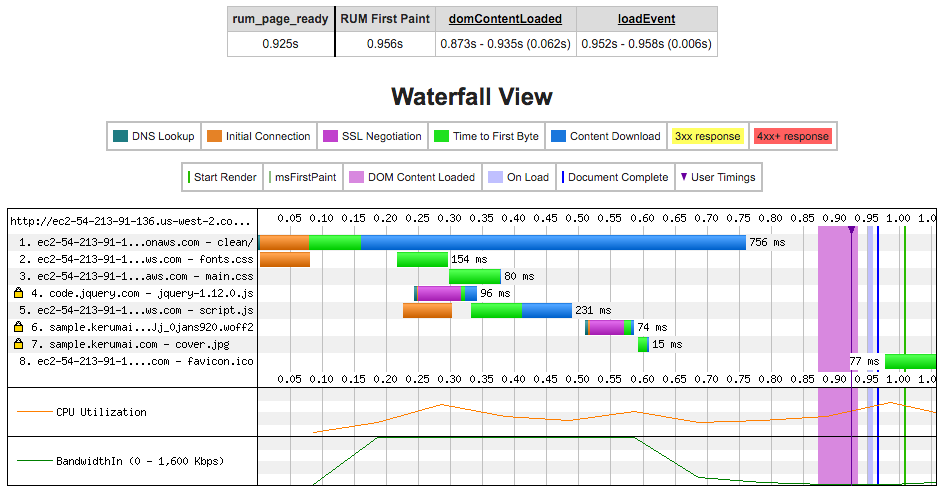
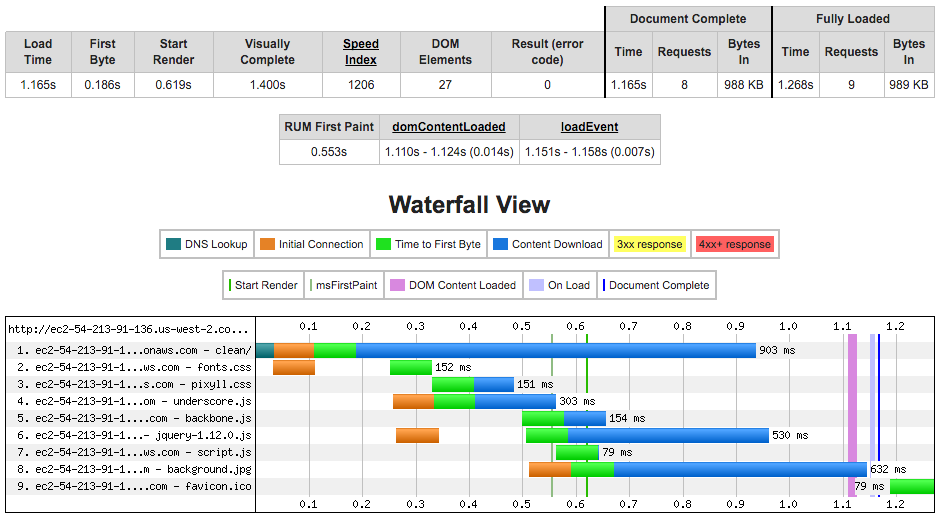
Re-ran webpagetest with the latest version of my sample chunking app, and updated the post to reflect that.

diff --git a/_posts/2016-02-21-speed-up-page-load-with-chunking.md b/_posts/2016-02-21-speed-up-page-load-with-chunking.md
@@ -2,8 +2,8 @@
 layout:     post
 title:      Speeding up Page Load with Chunking
 date:       2016-02-21 18:29:00
-summary:    Some techniques for using HTTP Chunked Encoding & Link Prefetching to speed up page load times
-tags: engineering
+summary:    Some techniques for using HTTP Chunked Transfer-Encoding to speed up page load times
+tags:       engineering
 image:      cooper-sailor-2.png
 published:  true
 ---
@@ -33,36 +33,35 @@ This can also work really well in combination with [link prefetch/preconnect/dns
 
 ### Example Site
 
-I setup a little sample site to demonstrate this. It's just a modified version of this [clean jekyll template](http://jekyllthemes.org/themes/clean/) served through some custom netty code I have running on an EC2 instance which I use to insert a half second delay between flushing the first and second chunks.
+I setup a little sample page to demonstrate this. It is just a basic html page served through some custom netty code I have running on an EC2 instance which I use to insert a half second delay between flushing the first and second chunks.
 
-The purpose is to simulate a page that is slow to generate, and show you the difference in time to the page being _'ready'_, with flushing the head early vs not. 
-Choosing when a page is ready can be very specific to the site in question, but for this I've inserted a [performance timing mark](https://developer.mozilla.org/en-US/docs/Web/API/Performance/mark) - "rum_page_ready" - at the point when the jquery and custom js files have been downloaded and processed, and the DOM is ready. And I also print this out into the page in a wonderful `<marquee>` tag :)
+The purpose is to simulate a page that is slow to generate, and show you the difference in time to the page being _'ready'_, with flushing the head early vs not.
 
-Here's the [site with fast flushing of the head](http://ec2-54-213-91-136.us-west-2.compute.amazonaws.com/clean/)
-And here it is [without flushing](http://ec2-54-213-91-136.us-west-2.compute.amazonaws.com/clean/?chunked=false)
+Here's the [site with fast flushing of the head](http://ec2-54-213-91-136.us-west-2.compute.amazonaws.com/clean/).
 
-As well as flushing the head early, a few other things I'm doing of note in the sample are:
+And here it is [without flushing](http://ec2-54-213-91-136.us-west-2.compute.amazonaws.com/clean/?chunked=false).
 
-- Using link prefetch for the hero image and font file, in the head. This gets the browser to start downloading them immediately, and storing them in cache, with them then being pulled from the browser cache when CSS chooses to use them.
-  - This is a bit hit and miss due to _prefetch_ being a hint rather than a command. But once [_preload_](https://www.w3.org/TR/preload/) is here (come on Ilya!), we can use that reliably instead.
-- Using `<script defer>` for the 2 JS files in the head. This gets the browser to download them early, but not block rendering to process them until after page finished loading.
+Now taking a look at the webpagetest runs for each, you can see the impact. Note that I ran these using webpagetest's simulated "Mobile 3G" connection on Chrome, running from the US east coast to AWS on the west coast to represent a reasonably bad connection.
 
-Now taking a look at the webpagetest runs for each, you can see the impact. Note that I ran these using webpagetest's simulated "Mobile 3G" connection on Chrome, running from the US east coast to AWS on the west coast to represent a reasonable bad connection.
-
-#### Results with Fast Flushing
-
-Can see that most of the assets have finished downloading in the gap between the first head chunk and the rest of the body.
-The rum_page_ready time was 0.925 secs:
-![Waterfall for fast flushed](/assets/waterfall-fast-flushed.png)
-<http://www.webpagetest.org/result/160222_J5_GB5/2/details/>
 
 #### Results without Flushing
 
-You can see that all the page assets don't start to get downloaded until _after_ the page has been fully downloaded.
-The rum_page_ready time was 1.13 secs:
+You can see that all the page assets don't start to get downloaded until __after the whole page has been generated__ by server and received by the browser.
+The _Document Complete_ time was __1.943 secs__:
 ![Waterfall for no flushing](/assets/waterfall-no-flushing.png)
-<http://www.webpagetest.org/result/160222_8Z_GB8/2/details/>
+<http://www.webpagetest.org/result/160229_WY_AGR/1/details/>
 
+
+#### Results with Fast Flushing
+
+And now with the early flushing, we can see that most of the assets have finished downloading in the gap between the first head chunk and the rest of the body.
+The _Document Complete_ time was __1.165 secs__:
+![Waterfall for fast flushed](/assets/waterfall-fast-flushed.png)
+<http://www.webpagetest.org/result/160229_99_AGQ/1/details/>
+
+So for this example - although admittedly tailored to demonstrate this - thats a decent __60% improvement__.
+
+#### References
 
 Here's the source, although there's nothing much special about the code: <https://github.com/kerumai/chunking>
 
@@ -104,5 +103,4 @@ The more widely used alternative to this technique is to render the js templates
 
 When you're trying to eke out improvements to page load time, especially on high latency networks, then keep flushing, chunked encoding, and link prefetch in mind.
 
-Maybe I'll get round to writing about other improvements that you can make with HTTP/2 and SSE some time soon! Or maybe I'll go back to re-watching all the seasons of House while counting down the days to Daredevil season 2!
-
+Maybe I'll get round to writing about other improvements that you can make with HTTP/2 and SSE some time soon! Or maybe Daredevil Season 2 will be released before then and I'll go dark for another week.

diff --git a/_posts/2016-02-28-programming-guidelines-from-2004.md b/_posts/2016-02-28-programming-guidelines-from-2004.md
@@ -2,9 +2,10 @@
 layout:     post
 title:      Programming Guidelines From 2004
 date:       2016-02-28 14:30:00
-tags: engineering,firsttechjob
-image: cooper-santa.jpg
-published: true
+summary:    Looking back on some software development tips that I wrote at the start of my career
+tags:       engineering,firsttechjob
+image:      cooper-santa.jpg
+published:  true
 ---
 
 The recent [\#FirstTechJob](https://twitter.com/search?q=%23FirstTechJob) meme on twitter got me thinking about my early career at a couple of small software companies. And that led me to finding this old gem that I wrote for my colleagues back in 2003/4 to seemingly try to impart my superior programming wisdom on them. 

diff --git a/about.md b/about.md
@@ -8,7 +8,6 @@ I'm Mike Smith, a software engineer at netflix, runner and trainee dog whisperer
 
 ![Mike](/assets/mike.jpg){:height="120px" width="120px"}
 
-
 [Resume](/resume.html)
 
-PS. [My dog](https://www.instagram.com/sircoopersmith/) has more followers than me.
+PS. [My dog Cooper](https://www.instagram.com/sircoopersmith/) has more followers than I do.
